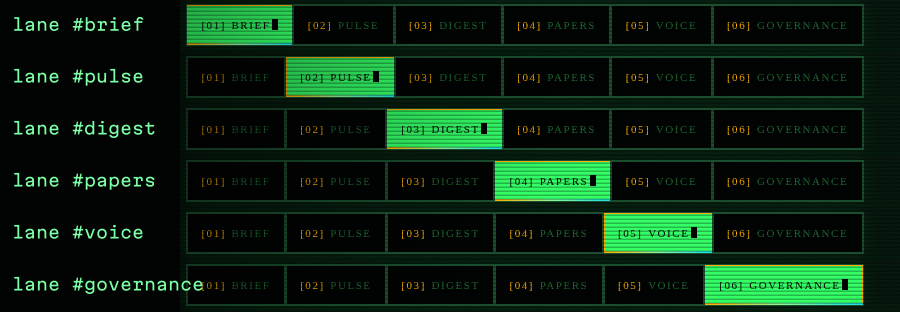
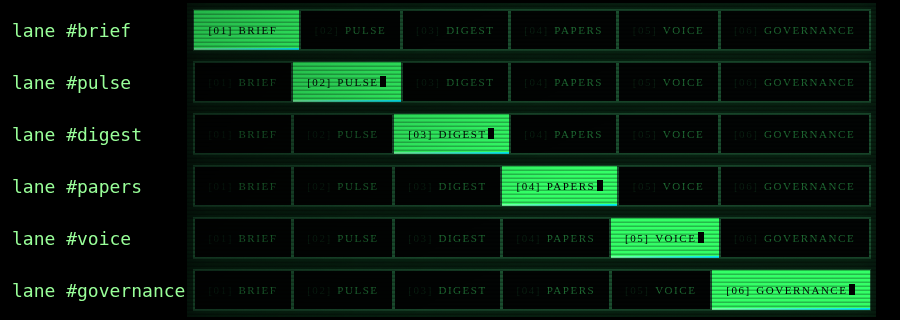
fix(sage): inactive lane tab numbers muted, no amber on tab row [skip ci]

diff --git a/desk/src/app/globals.css b/desk/src/app/globals.css
@@ -407,7 +407,7 @@ body {
     color: var(--primary-foreground);
     background: var(--phosphor);
     text-shadow: none;
-    box-shadow: inset 0 0 0 1px var(--pip-amber);
+    box-shadow: none;
   }
   .desk-lane-btn.block-cursor::after {
     background: var(--phosphor);
@@ -527,7 +527,7 @@ body {
   }
 
   .lane-prefix {
-    color: var(--pip-amber);
+    color: var(--muted);
     margin-right: 0.35rem;
     font-variant-numeric: tabular-nums;
   }
@@ -691,7 +691,7 @@ body {
     border-bottom-color: color-mix(in srgb, var(--phosphor) 20%, var(--border));
   }
 
-  /* Lane segmented control — active = phosphor slab + amber hairline (anti-pill) */
+  /* Lane segmented control — active = phosphor slab (anti-pill); no amber on the tab row */
   .desk-lane {
     box-shadow:
       inset 0 0 0 1px color-mix(in srgb, var(--phosphor-deep) 60%, transparent),
@@ -708,7 +708,7 @@ body {
     right: 0;
     bottom: 0;
     height: 2px;
-    background: linear-gradient(90deg, var(--pip-amber), var(--phosphor-bright), var(--holo));
+    background: linear-gradient(90deg, var(--phosphor-bright), var(--holo));
     opacity: 0.9;
   }
 
@@ -1768,8 +1768,12 @@ body {
 .desk-lane-btn:not([aria-current="page"])::before {
   content: none;
 }
-.desk-lane-btn:not([aria-current="page"]) .lane-prefix {
-  color: var(--pip-amber);
+/* Inactive tab numbers: var(--muted) on every lane (hover/focus included) — no amber on the tab row;
+   the single filled active tab carries the signal. */
+.desk-lane-btn:not([aria-current="page"]) .lane-prefix,
+.desk-lane-btn:not([aria-current="page"]):hover .lane-prefix,
+.desk-lane-btn:not([aria-current="page"]):focus-visible .lane-prefix {
+  color: var(--muted);
 }
 .desk-lane-btn[aria-current="page"] {
   background: var(--phosphor);

diff --git a/desk/src/lib/__tests__/beat6.test.ts b/desk/src/lib/__tests__/beat6.test.ts
@@ -30,6 +30,20 @@ describe("lane tabs — exactly one active, always the current lane", () => {
     expect(beat6).toMatch(/\.desk-lane-btn \{\s*transition: color 120ms ease;\s*\}/);
     expect(/#[0-9a-f]{3,8}\b/i.test(beat6)).toBe(false);
   });
+
+  test("CSS: no amber anywhere on the tab row; inactive numbers are var(--muted) on every lane", () => {
+    const css = readFileSync(resolve(import.meta.dir, "../../app/globals.css"), "utf8");
+    const bare = css.replace(/\/\*[\s\S]*?\*\//g, "");
+    const rules = [...bare.matchAll(/([^{}]+)\{([^{}]*)\}/g)].map((m) => ({ sel: m[1].trim(), body: m[2] }));
+    const tabRow = rules.filter((r) => /desk-lane|lane-prefix/.test(r.sel));
+    expect(tabRow.length).toBeGreaterThan(5);
+    for (const r of tabRow) expect(`${r.sel} { ${r.body}`).not.toMatch(/amber/i);
+    const inactive = tabRow.filter((r) => /:not\(\[aria-current="page"\]\)[^,]*\.lane-prefix/.test(r.sel));
+    expect(inactive.length).toBeGreaterThan(0);
+    for (const r of inactive) expect(r.body).toMatch(/color:\s*var\(--muted\)/);
+    // lane-specific overrides would reintroduce the [01]/[02] vs [03]–[06] split
+    expect(tabRow.some((r) => /nth-child|data-lane/.test(r.sel))).toBe(false);
+  });
 });
 
 describe("papers row builder", () => {
